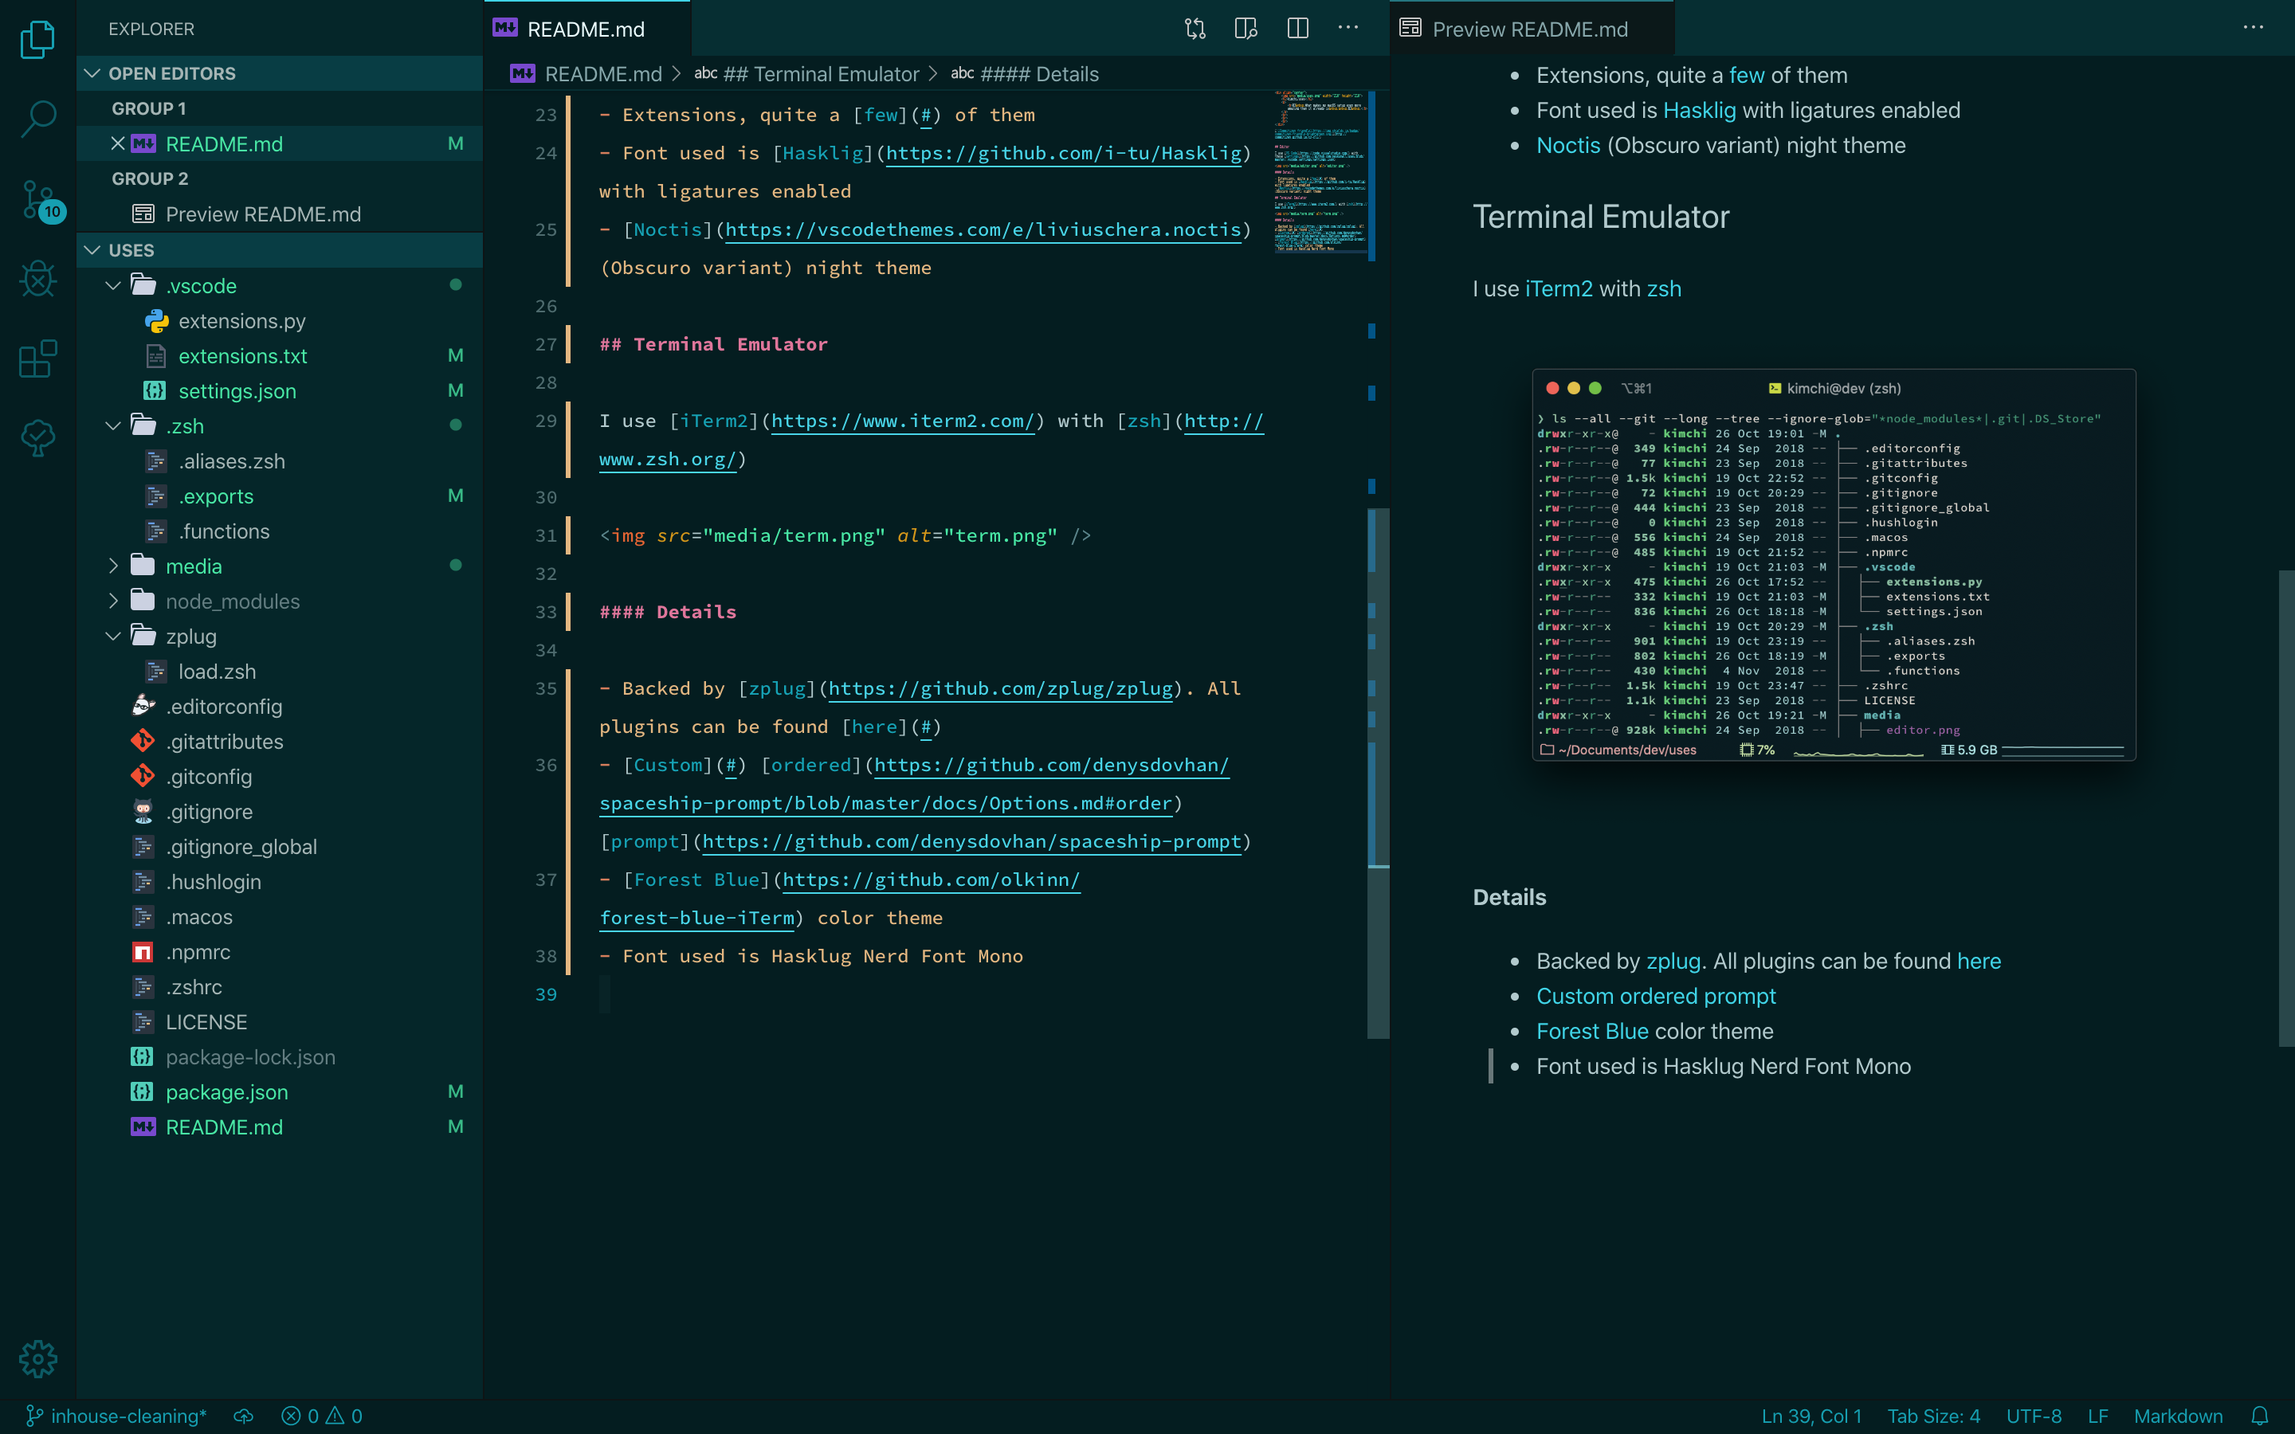
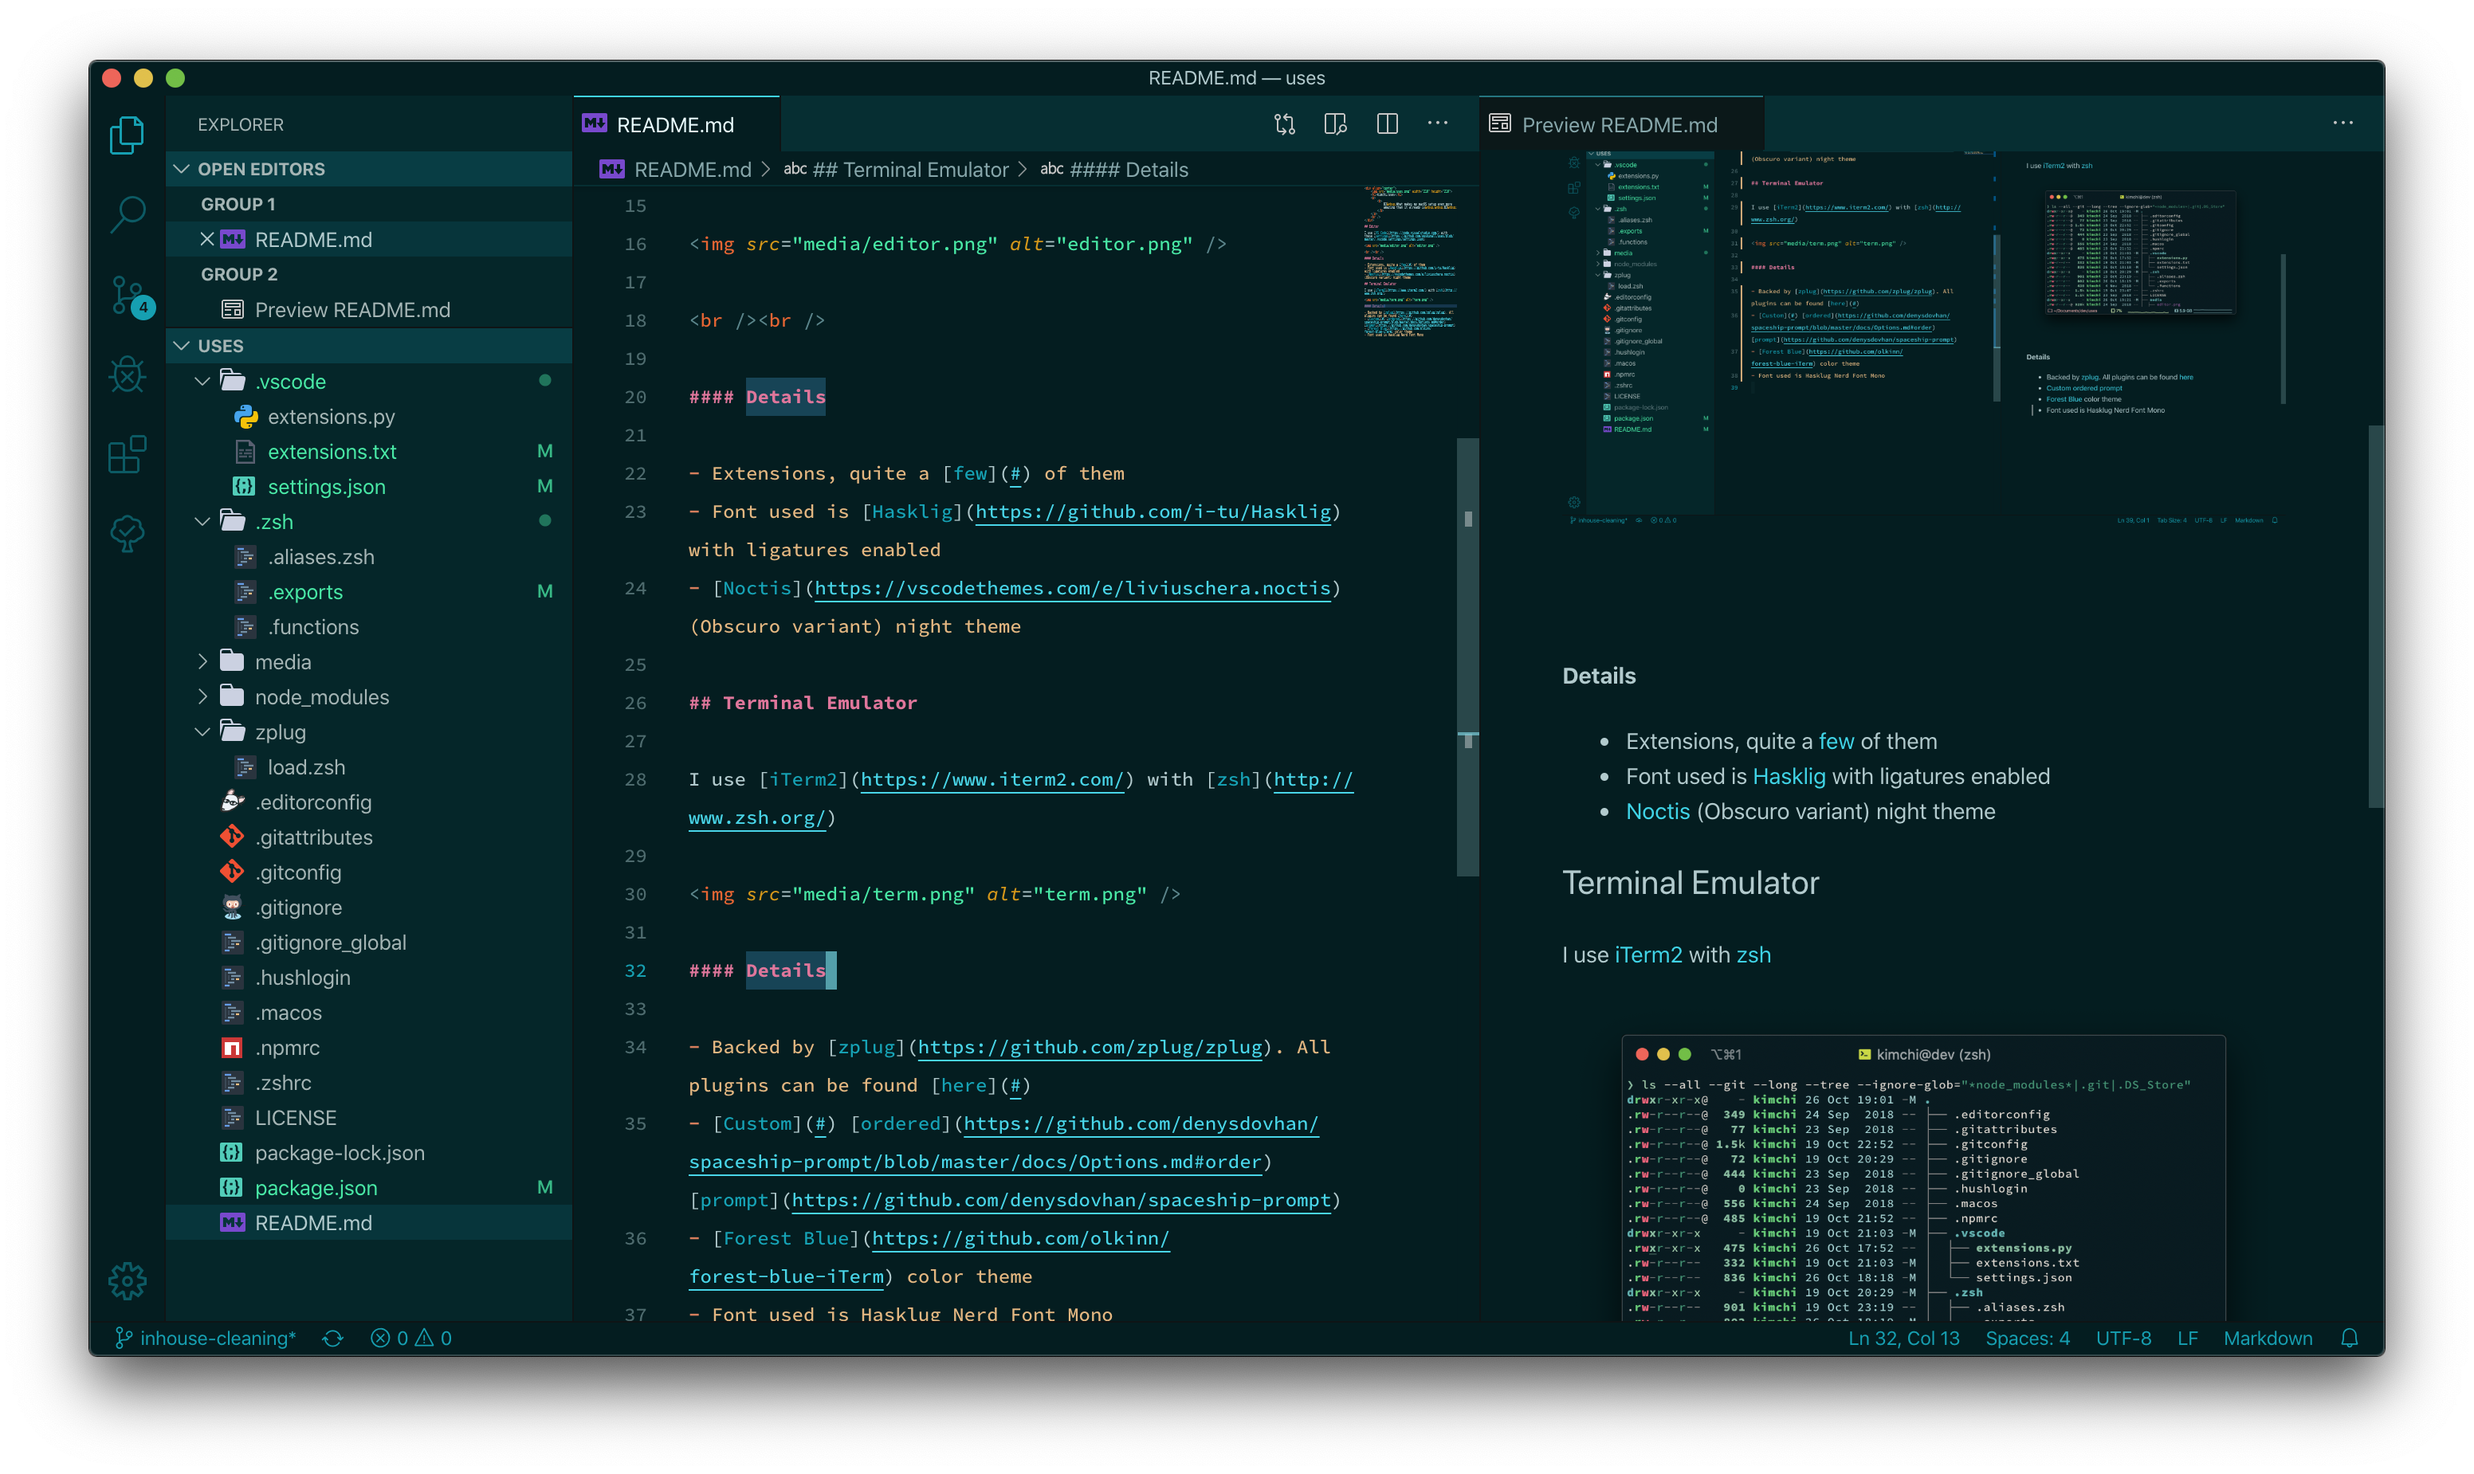
fmt

diff --git a/README.md b/README.md
@@ -15,8 +15,6 @@ I use [VS Code](https://code.visualstudio.com/) with these [settings](https://gi
 
 <img src="media/editor.png" alt="editor.png" />
 
-<br /><br />
-
 #### Details
 
 - Extensions, quite a [few](#) of them
